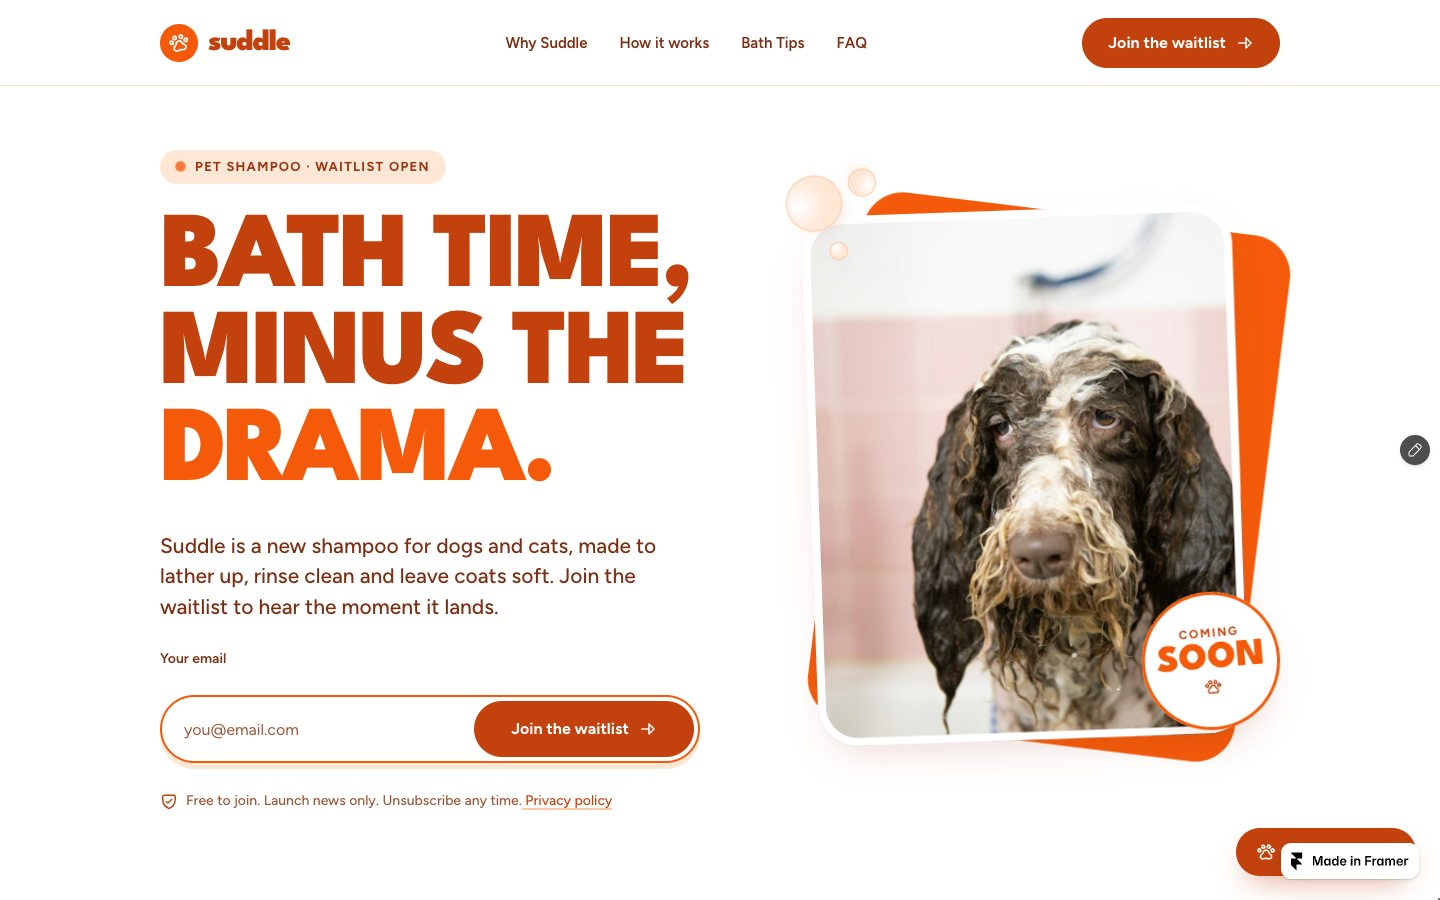
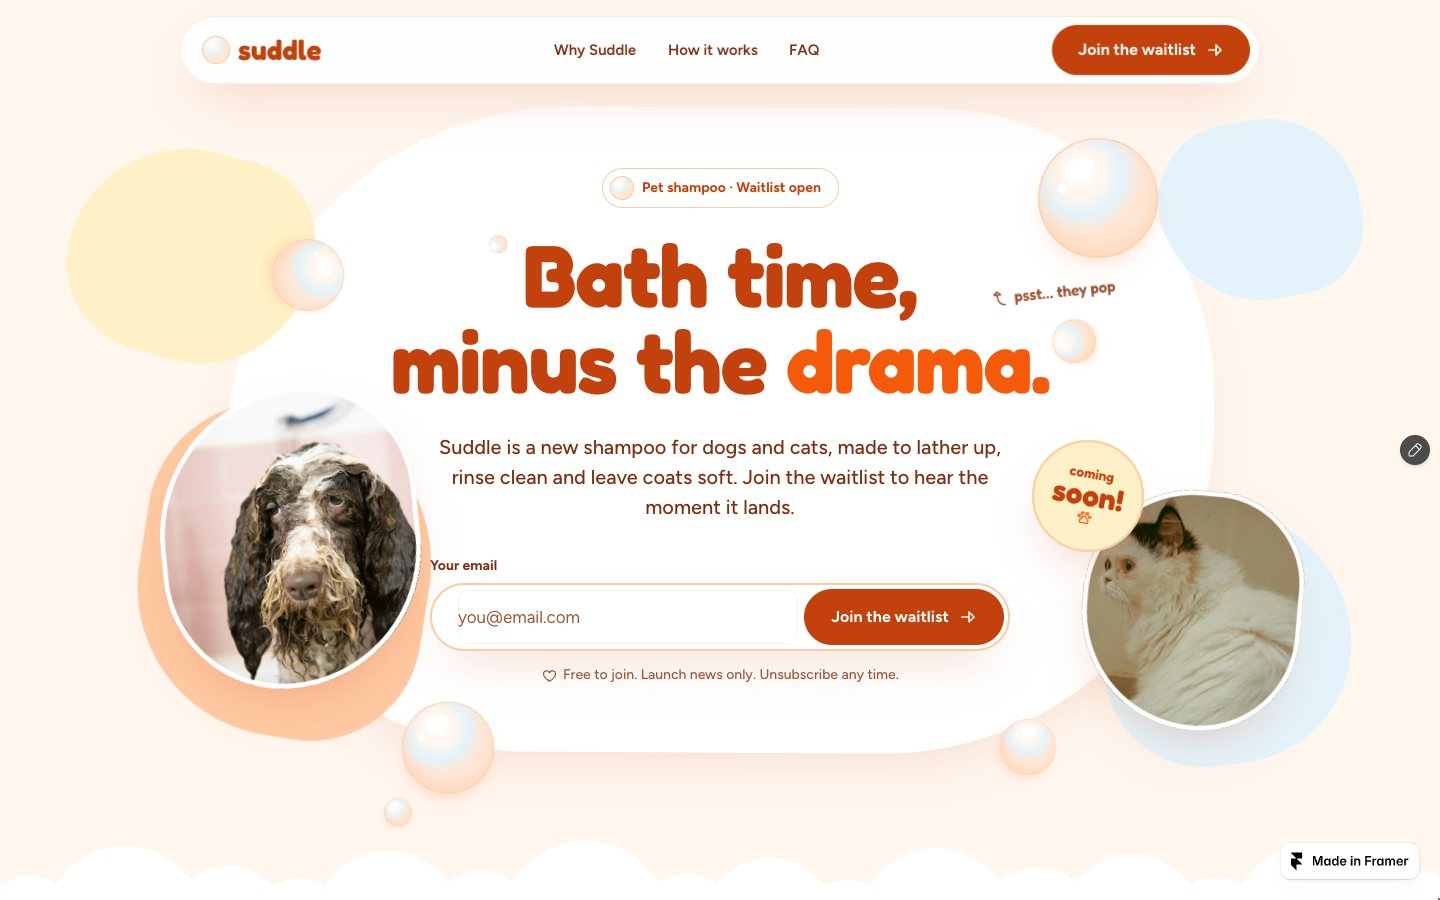
/framer: Suddle shows its playful page (capture + link to /playful)

diff --git a/src/data/nocode.ts b/src/data/nocode.ts
@@ -26,10 +26,10 @@ export const NOCODE_LABEL = 'Concept site · fictional brand';
 export const builds: NoCodeBuild[] = [
   {
     id: 'suddle', platform: 'framer', brand: 'Suddle', category: 'Pet shampoo · waitlist', line: 'Bath time, minus the drama.',
-    what: 'A launch site for a new dog and cat shampoo: waitlist forms in the hero, the page and a pop-up, a Bath Tips blog on Framer CMS, a liquid shader behind the sign-up and bubbles you can drag. A second, playful version of the page has bubbles you pop.',
-    chips: ['Framer CMS blog', 'Waitlist forms', 'Shader', 'Scroll motion', 'Desktop · tablet · phone'],
-    url: 'https://stormy-board-163108.framer.app', host: 'stormy-board-163108.framer.app', date: '2026-10-20',
-    alt: 'Suddle concept site built in Framer: the headline Bath time, minus the drama next to a wet spaniel photo and a waitlist email form.',
+    what: 'The bubbly, playful version of a launch site for a new dog and cat shampoo: soap bubbles you can pop (they grow back), round pebble photos, a foam cloud hero and a waitlist form. The main site adds a Bath Tips blog on Framer CMS, a waitlist pop-up and a liquid shader.',
+    chips: ['Poppable bubbles', 'Framer components', 'Waitlist forms', 'Framer CMS blog', 'Desktop · tablet · phone'],
+    url: 'https://stormy-board-163108.framer.app/playful', host: 'stormy-board-163108.framer.app/playful', date: '2026-10-20',
+    alt: 'Suddle playful concept page built in Framer: the headline Bath time, minus the drama in a foam cloud, with round photos of a wet spaniel and a fluffy cat, soap bubbles and a waitlist email form.',
   },
   {
     id: 'ricko', platform: 'framer', brand: 'Ricko', category: 'Rice milk · shop page', line: 'Shake it like you mean it.',
